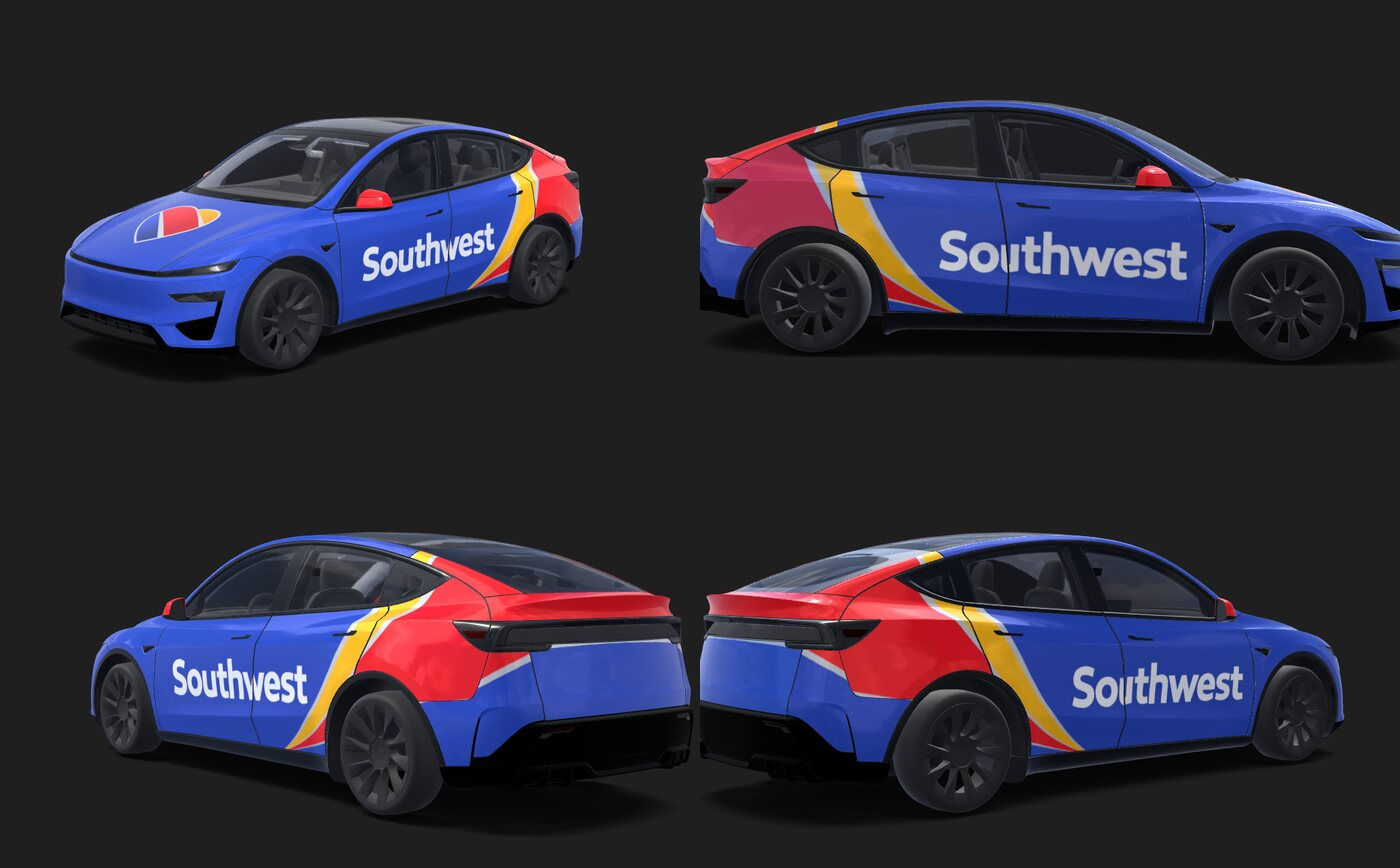
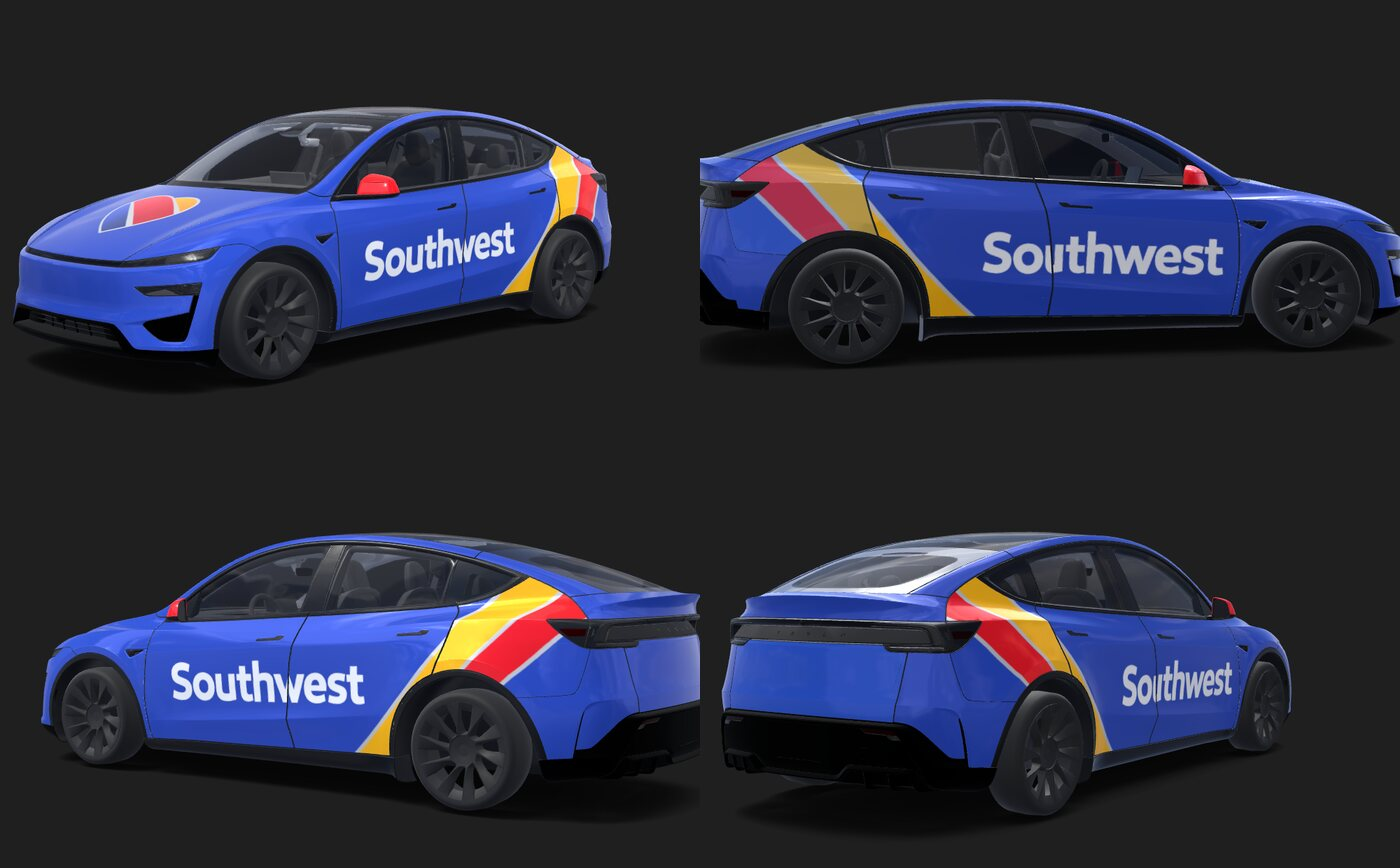
fix: redraw tail stripes as parallel bands and keep the rear blue
The stripes fanned out of a single point into a red wedge that swallowed
the rear quarter, and the D-pillars, liftgate and bumper had their own
red and silver pieces that didn't line up with the sides.

The yellow and red are now equal-width bands with silver pinstripes that
sweep from the rocker over the rear wheel to the window line. Everything
behind them, including the liftgate and rear bumper, stays Bold Blue
like the 737's tail cone.

Also fixes the panel mask: sharp applies chained operations in a fixed
order, so the threshold/dilate ran on the RGB image and the mask was
shrinking each panel instead of adding a bleed. The bleed is now 1px so
the gaps between panels stay visible.

diff --git a/src/models/modely-2025-performance.ts b/src/models/modely-2025-performance.ts
@@ -1,4 +1,4 @@
-import { COLORS, heart, regionBeyond, wordmark, type Curve, type Point } from "../livery.ts";
+import { COLORS, heart, parallelStripes, tailStripes, wordmark, type Curve, type Point } from "../livery.ts";
 import type { WrapModel } from "./types.ts";
 
 // Template layout (1024x1024, front of the car at the top):
@@ -8,15 +8,24 @@ import type { WrapModel } from "./types.ts";
 //   car's front is up, the rocker panel faces the outer edge and the
 //   beltline faces the center.
 // - Roof rails run down the middle beside the (unpainted) glass roof, ending
-//   at the D-pillars, with the liftgate and rear bumper at the bottom.
+//   at the D-pillars, with the liftgate and rear bumper at the bottom. Those
+//   stay Bold Blue, like the 737's tail cone.
 
 /** The template's left and right halves mirror around x = MIRROR_X / 2. */
 const MIRROR_X = 1019;
 
-/** Where the stripes fan out from: the rocker, near the front of the rear door. */
-const TIP: Point = [74, 610];
-
-const sweep = (p1: Point, p2: Point, p3: Point): Curve => [TIP, p1, p2, p3];
+/**
+ * Leading edge of the tail stripes on the driver side. It rises from the
+ * rocker just behind the title, across the rear door and quarter panel, to
+ * the window line at the back. It steepens slightly toward the top, like the
+ * stripes rising into the 737's tail.
+ */
+const STRIPE_EDGE: Curve = [
+  [40, 602],
+  [100, 697],
+  [190, 802],
+  [300, 872],
+];
 
 // Fill toward the rocker and the rear of the car.
 const behind = (start: Point, end: Point): Point[] => [
@@ -24,49 +33,14 @@ const behind = (start: Point, end: Point): Point[] => [
   [-100, 1100],
   [-100, start[1]],
 ];
-// Fill toward the rocker only.
-const below = (start: Point, end: Point): Point[] => [
-  [-100, end[1]],
-  [-100, start[1]],
-];
-
-/**
- * The rear-fuselage swoosh on the driver side, painted front to back. Like on
- * the 737, every stripe fans out of one point low on the body: the yellow
- * and red sweep up to the beltline, while the trailing silver and blue run
- * low to the rear bumper, leaving a red wedge that fills the top of the rear
- * quarter like the tail fin.
- */
-const SWOOSH: [Curve, string, typeof behind][] = [
-  [sweep([96, 665], [165, 760], [340, 805]), COLORS.summitSilver, behind],
-  [sweep([94, 671], [165, 770], [340, 817]), COLORS.sunriseYellow, behind],
-  [sweep([89, 699], [165, 827], [340, 874]), COLORS.summitSilver, behind],
-  [sweep([87, 705], [165, 837], [340, 886]), COLORS.warmRed, behind],
-  [sweep([82, 725], [118, 885], [175, 1100]), COLORS.summitSilver, below],
-  [sweep([80, 731], [111, 891], [168, 1100]), COLORS.boldBlue, below],
-];
 
 function driverSide(): string {
   return (
     `<g clip-path="url(#side)">` +
-    SWOOSH.map(([curve, fill, around]) => regionBeyond(curve, fill, around)).join("") +
+    parallelStripes(STRIPE_EDGE, tailStripes(56, 7), [0, 1], behind) +
     `</g>` +
-    // D-pillar: the swoosh carries on over the top of the car into the red.
-    `<rect x="296" y="811" width="66" height="160" fill="${COLORS.warmRed}"/>` +
-    `<rect x="296" y="811" width="66" height="34" fill="${COLORS.summitSilver}"/>` +
-    `<rect x="296" y="811" width="66" height="28" fill="${COLORS.sunriseYellow}"/>` +
-    `<rect x="296" y="811" width="66" height="7" fill="${COLORS.summitSilver}"/>` +
     // Mirror caps in tail red.
     `<path fill="${COLORS.warmRed}" d="M266 386 L288 362 L338 362 L347 402 L316 412 L286 408 Z"/>`
-  );
-}
-
-function rear(): string {
-  return (
-    // The liftgate carries the red of the tail fin...
-    `<rect x="350" y="866" width="320" height="68" fill="${COLORS.warmRed}"/>` +
-    // ...and the rear bumper stays blue below a silver separator.
-    `<rect x="390" y="934" width="246" height="10" fill="${COLORS.summitSilver}"/>`
   );
 }
 
@@ -81,7 +55,6 @@ export const modelYPerformance2025: WrapModel = {
     // Driver side, then the same artwork mirrored onto the passenger side.
     driverSide() +
     `<g transform="matrix(-1 0 0 1 ${MIRROR_X} 0)">${driverSide()}</g>` +
-    rear() +
     // Titles read front-to-back on the driver side and back-to-front on the
     // passenger side, like on the aircraft. The ~6° tilt follows the doors.
     // Each is placed so the door gap runs through the middle of the "w" on

diff --git a/src/livery.ts b/src/livery.ts
@@ -93,3 +93,40 @@ export function regionBeyond(
     .join("");
   return `<path fill="${fill}" d="M${pt(start)} L${pt(p0)} C${pt(p1)} ${pt(p2)} ${pt(p3)} L${pt(end)}${close} Z"/>`;
 }
+
+/**
+ * The tail stripes as they cross the 737's rear fuselage, front to back:
+ * yellow and red bands of equal width, outlined by silver pinstripes.
+ */
+export function tailStripes(band: number, pinstripe: number): [fill: string, width: number][] {
+  return [
+    [COLORS.summitSilver, pinstripe],
+    [COLORS.sunriseYellow, band],
+    [COLORS.summitSilver, pinstripe],
+    [COLORS.warmRed, band],
+    [COLORS.summitSilver, pinstripe],
+  ];
+}
+
+/**
+ * Paints `stripes` as parallel bands. The first starts at `edge`, and each
+ * band boundary after it is `edge` moved further along the unit vector
+ * `step` by the widths so far. Everything past the last band goes back to
+ * the body color.
+ */
+export function parallelStripes(
+  edge: Curve,
+  stripes: [fill: string, width: number][],
+  step: Point,
+  around: (start: Point, end: Point) => Point[],
+): string {
+  const move = ([x, y]: Point, by: number): Point => [x + step[0] * by, y + step[1] * by];
+  const shifted = (by: number): Curve => [move(edge[0], by), move(edge[1], by), move(edge[2], by), move(edge[3], by)];
+  let offset = 0;
+  let svg = "";
+  for (const [fill, width] of stripes) {
+    svg += regionBeyond(shifted(offset), fill, around);
+    offset += width;
+  }
+  return svg + regionBeyond(shifted(offset), COLORS.boldBlue, around);
+}

diff --git a/src/render.ts b/src/render.ts
@@ -34,7 +34,7 @@ export async function panelMask(model: WrapModel, pixels: number): Promise<Buffe
  * How far paint bleeds past each panel outline, in pixels, so texture
  * filtering never samples the transparent gaps at panel edges.
  */
-const BLEED = 2;
+const BLEED = 1;
 
 export function templatePath(model: WrapModel): string {
   return join(ROOT, "templates", model.id, "template.png");
